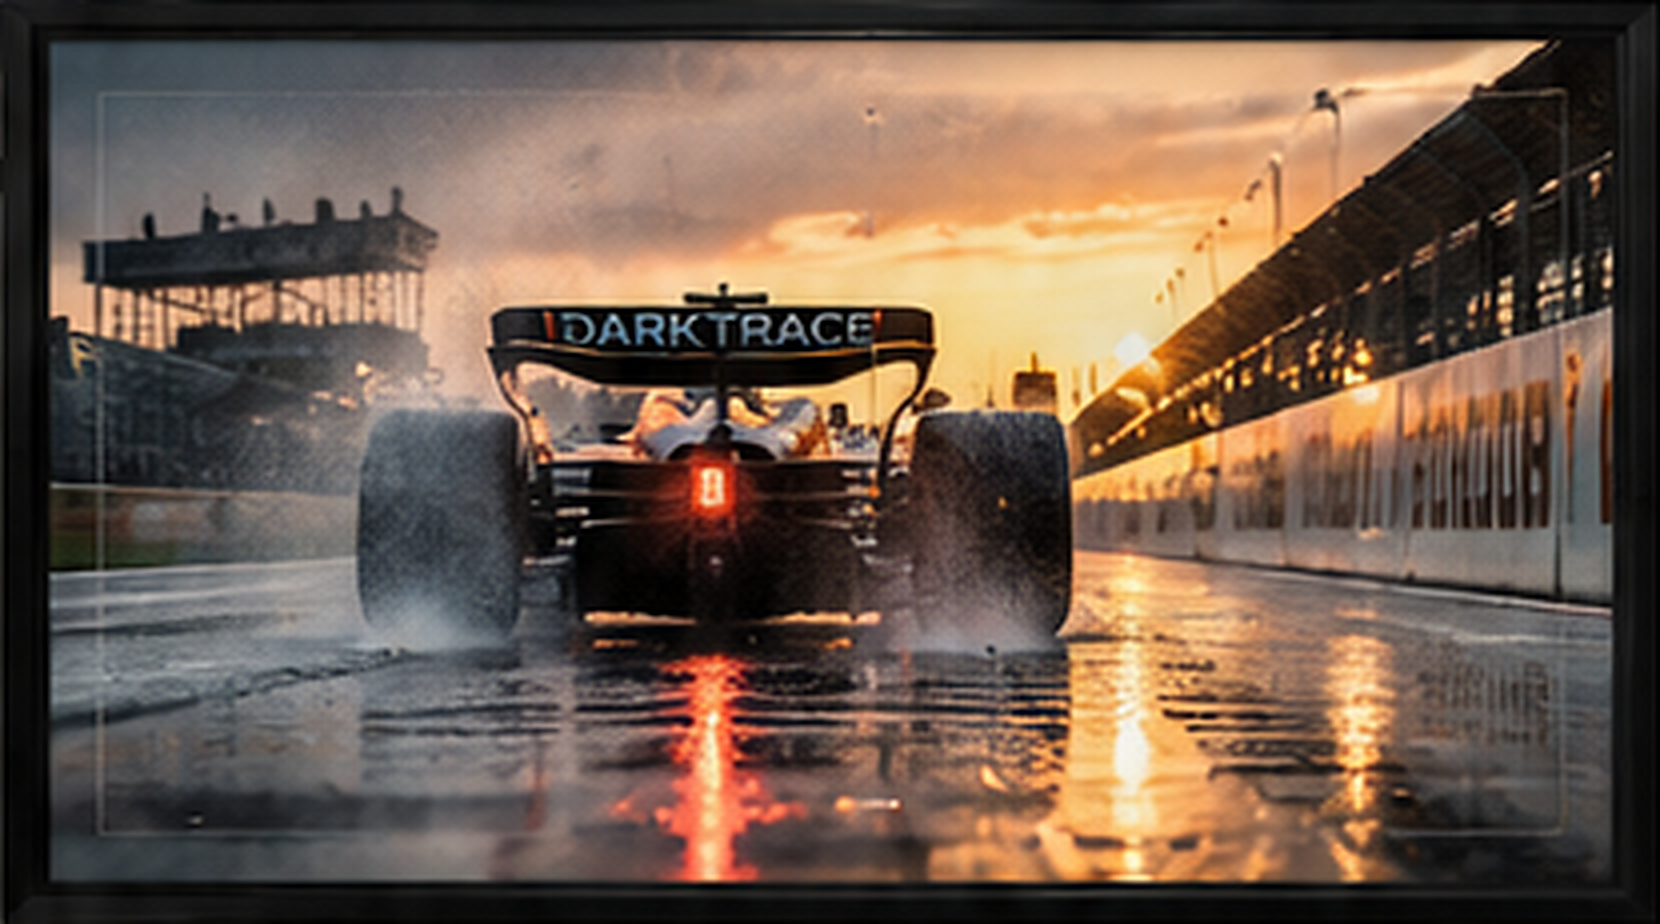
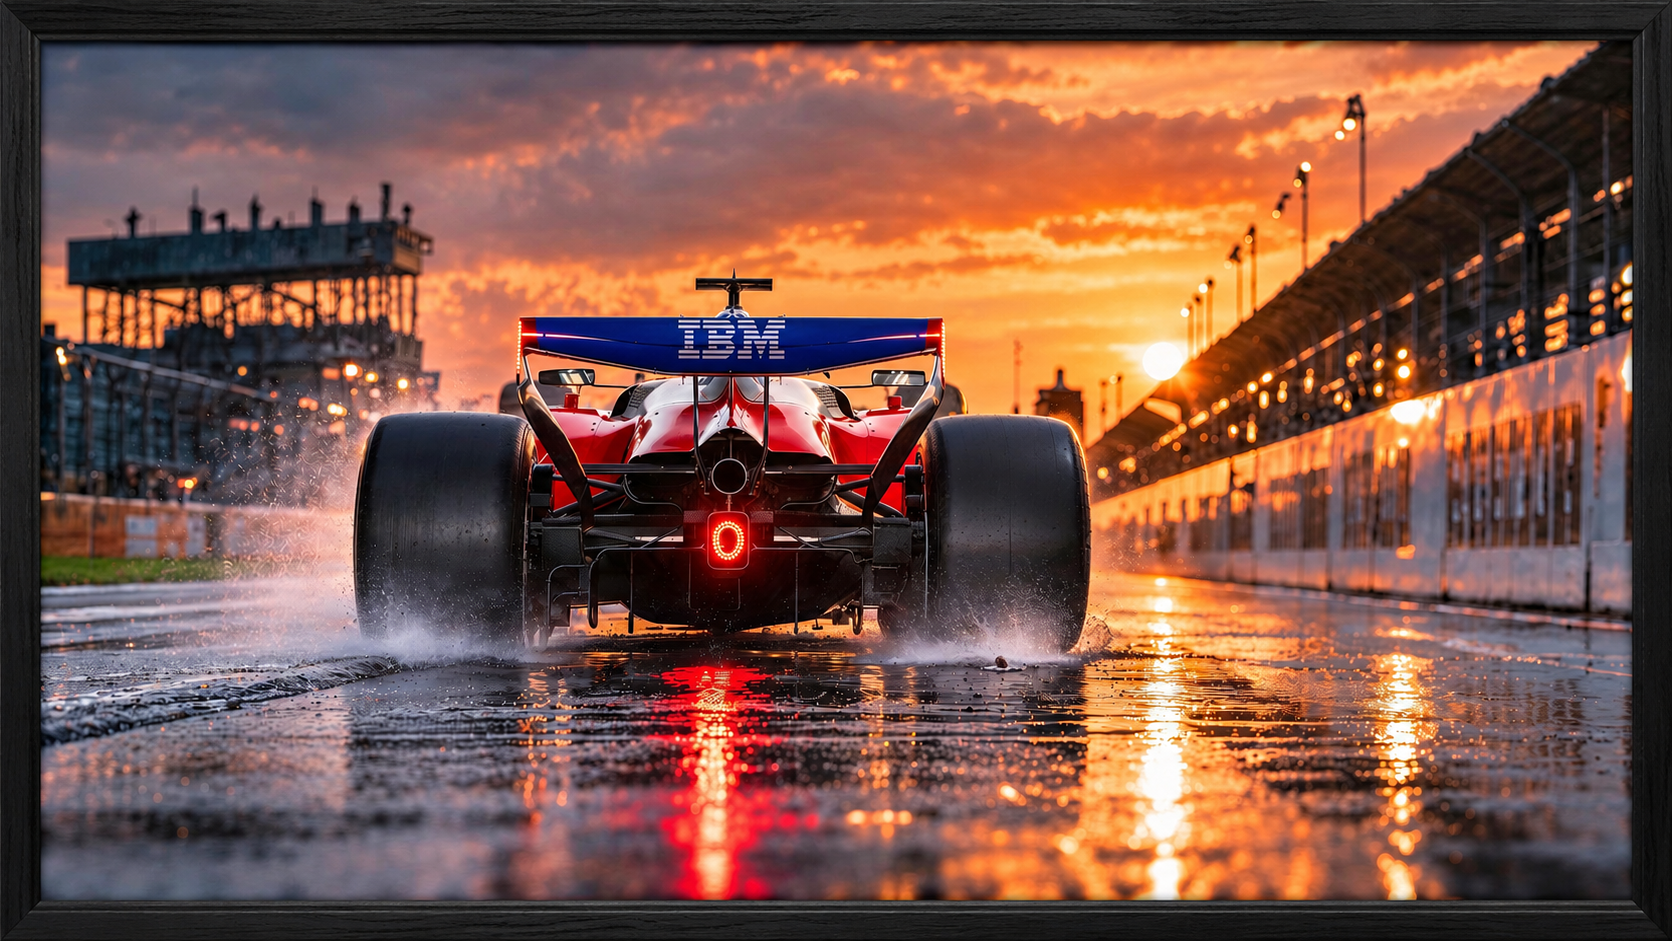
feat: replace moments gallery centerpiece with NEW Black-Framed Racing Car at Sunset

diff --git a/index.html b/index.html
@@ -629,7 +629,7 @@
             <div class="gw-item gw-item-silverstone">
               <a href="#product/silverstone" class="gw-frame-link" aria-label="View Silverstone Sunset Rain Grand Prix Artwork">
                 <div class="gw-frame-box">
-                  <img src="/assets/products/gallery_silverstone_hero.png?v=3" alt="Silverstone Sunset Rain Grand Prix Framed Print" class="gw-frame-img" />
+                  <img src="/assets/products/NEW%20Black-Framed%20Racing%20Car%20at%20Sunset.png?v=1" alt="Black-Framed Racing Car at Sunset" class="gw-frame-img" />
                 </div>
               </a>
               <div class="gw-caption">
